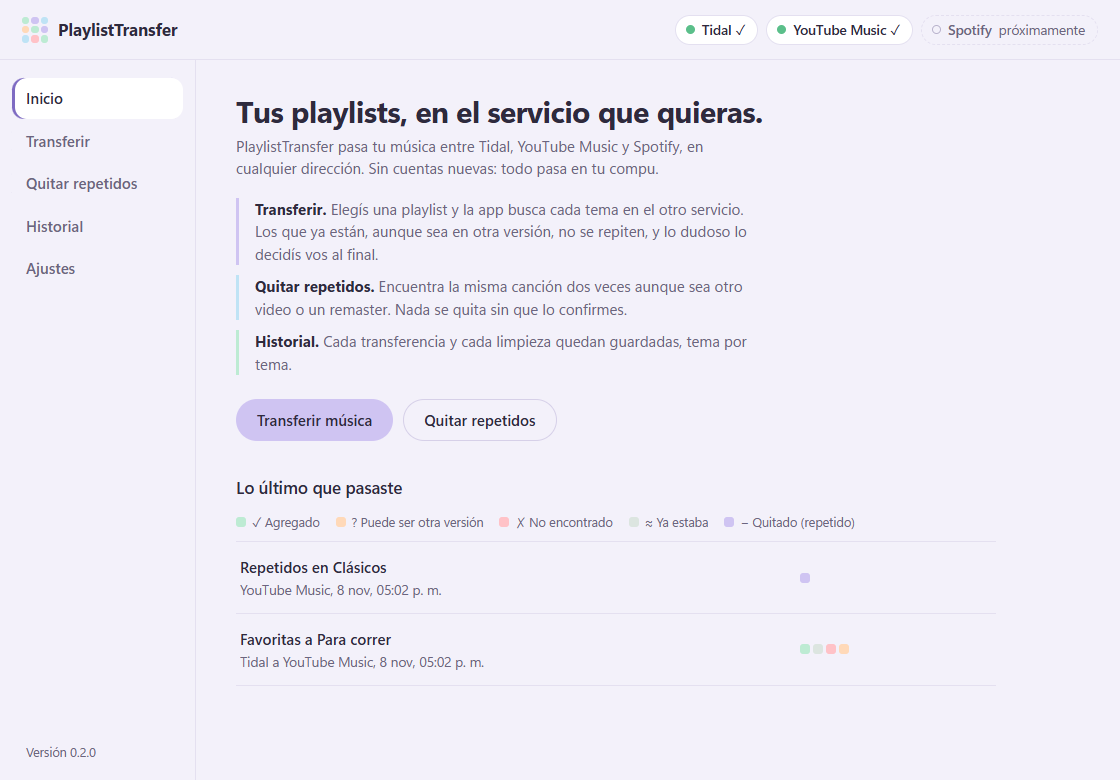
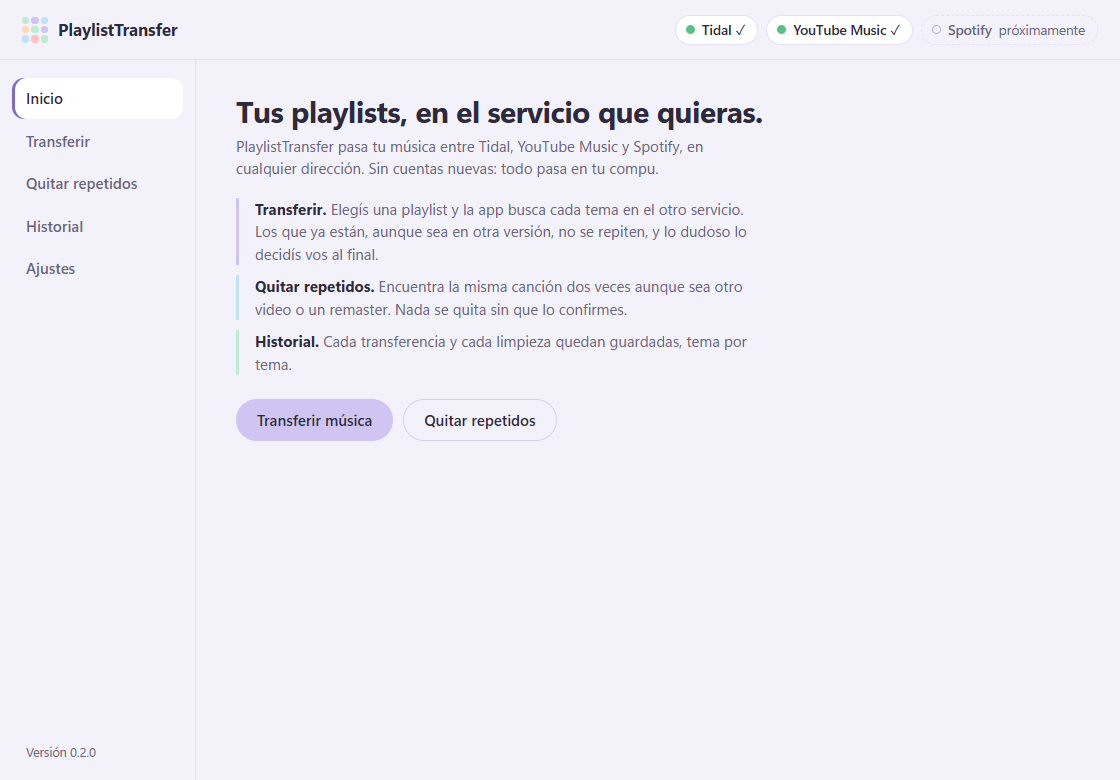
Inicio sin 'Lo último que pasaste' (ya está en Historial); ⇅ como ícono SVG centrado
Norma nueva en test_ui_design.py: todo botón sin texto usa .icon-btn, es cuadrado y su ícono
(un SVG, nunca un carácter) queda centrado, medido en pantalla.

diff --git a/app/ui/styles.css b/app/ui/styles.css
@@ -118,13 +118,6 @@
   .features li:nth-child(3) { border-left-color: var(--mint); }
   .features b { color: var(--ink); }
 
-  .history-mini { list-style: none; margin: 0; padding: 0; border-top: 1px solid var(--line); }
-  .history-mini li {
-    display: grid; grid-template-columns: 1fr auto; gap: 4px 20px; align-items: center;
-    padding: 14px 4px; border-bottom: 1px solid var(--line);
-  }
-  .history-mini .what { font-weight: 600; }
-  .history-mini .when { color: var(--ink-soft); font-size: 13.5px; }
 
   /* ---------- mosaico ---------- */
   .mosaic { display: grid; gap: 5px; }
@@ -275,7 +268,7 @@
 .svc .actions-inline { display: flex; gap: 8px; }
 .login-wait { font-size: 13.5px; color: var(--ink-soft); margin-top: 4px; }
 .path { font-size: 13px; color: var(--ink-soft); word-break: break-all; margin-top: 8px; }
-.history-mini li.empty, .hist li.empty { display: block; }
+.hist li.empty { display: block; }
 .empty .btn { margin-left: 10px; height: 32px; padding: 0 14px; font-size: 14px; }
 .hist-controls { margin-bottom: 16px; }
 .export-note { font-size: 13.5px; margin-top: 10px; word-break: break-all; }
@@ -324,8 +317,7 @@ main { overflow-wrap: anywhere; }                       /* una palabra larguísi
 
 /* Historial e Inicio: el texto se corta en dos líneas como mucho; el mosaico no empuja */
 .hist button.row { grid-template-columns: 116px minmax(0, 1fr) auto; }
-.history-mini li { grid-template-columns: minmax(0, 1fr) auto; }
-.hist .what, .history-mini .what { display: -webkit-box; -webkit-line-clamp: 2; -webkit-box-orient: vertical; overflow: hidden; }
+.hist .what { display: -webkit-box; -webkit-line-clamp: 2; -webkit-box-orient: vertical; overflow: hidden; }
 
 /* Repetidos: el selector no crece con el nombre más largo */
 #dup-playlist { width: 340px; max-width: 100%; min-width: 0; text-overflow: ellipsis; }
@@ -371,7 +363,7 @@ main { overflow-wrap: anywhere; }                       /* una palabra larguísi
 .done-box .done-extra { margin-top: 12px; }
 
 /* Estado vacío: texto y botón en una línea, alineados */
-.history-mini li.empty, .hist li.empty { display: flex; align-items: center; gap: 12px; flex-wrap: wrap; }
+.hist li.empty { display: flex; align-items: center; gap: 12px; flex-wrap: wrap; }
 .empty .btn { margin-left: 0; }
 
 /* Ayuda de los umbrales: más corta y del mismo tamaño que el resto de las ayudas */
@@ -413,4 +405,10 @@ dialog p + p { margin-top: 10px; }            /* un segundo aviso (Spotify) sepa
 }
 .route-pick select.to { box-shadow: inset 0 -3px 0 var(--sky); }
 .route-pick select:hover { background-color: #FBFAFE; }
-.route-pick .swap { width: var(--h-md); height: var(--h-md); padding: 0; border-radius: 50%; font-size: 17px; }
+.route-pick .icon-btn { border-radius: 50%; }
+
+/* Botones de solo ícono: el ícono es un SVG (no un carácter de texto, que cada fuente ubica distinto)
+   y se centra con grid. Norma: todo botón de ícono usa .icon-btn; test_ui_design.py mide que quede centrado */
+.icon-btn { width: var(--h-md); height: var(--h-md); padding: 0; display: inline-grid; place-items: center; }
+.icon-btn svg { width: 16px; height: 16px; fill: none; stroke: currentColor; stroke-width: 1.7;
+  stroke-linecap: round; stroke-linejoin: round; }

diff --git a/app/ui/app.js b/app/ui/app.js
@@ -230,13 +230,6 @@ function showLegend(id, visible) {
   if (visible) el.innerHTML = legendHTML();
 }
 
-async function renderHomeHistory() {
-  const ops = await call("history", 3) || [];
-  showLegend("#home-legend", ops.length > 0);
-  $("#home-history").innerHTML = ops.length ? ops.map(op => `
-    <li><div><div class="what" title="${esc(opTitle(op))}">${esc(opTitle(op))}</div><div class="when">${esc(opRoute(op))}, ${esc(opDate(op))}</div></div>
-    ${mosaicHTML(op)}</li>`).join("") : emptyHistory();
-}
 
 /* ---------------------------------------------------------------- transferir: elegir */
 
@@ -377,7 +370,6 @@ async function startTransfer(dryRun) {
     $("#done-detail").textContent = cancelled ? t("transfer.cancelled_text") : (done.error || "");
     $("#open-dest").hidden = true; $("#done").classList.add("show");
   }
-  renderHomeHistory();
 }
 
 function onTransferEvent(tr, e) {
@@ -474,7 +466,6 @@ async function addDoubtful(ns) {
   }
   toast(added.size ? t("transfer.add_doubtful_toast", { n: added.size }) : t("transfer.add_doubtful_already"));
   updateAddAll();
-  renderHomeHistory();
 }
 
 $("#add-all").addEventListener("click", () => {
@@ -495,7 +486,6 @@ $("#tracks").addEventListener("click", async e => {
     const a = done.result.added;
     b.textContent = t("transfer.alt_added", { artist: a.artist });
     toast(t("transfer.alt_toast", { title: a.title, artist: a.artist }));
-    renderHomeHistory();
   } else { b.disabled = false; toast(done.error || t("transfer.alt_error")); }
 });
 
@@ -582,7 +572,7 @@ $("#confirm-yes").addEventListener("click", async () => {
   const done = await follow(r.job);
   if (done.state === "done") {
     toast(t("dedupe.removed_toast", { songs: songs(done.result.removed), name: done.result.name }));
-    delete state.playlists[state.dupService]; renderHomeHistory(); await renderDupControls(); scanDups();
+    delete state.playlists[state.dupService]; await renderDupControls(); scanDups();
   } else toast(done.error || t("dedupe.remove_error"));
 });
 
@@ -825,7 +815,6 @@ async function start() {
     $("#version").textContent = t("nav.version", { v: info.version });
     $("#about-version").textContent = t("settings.about_version", { v: info.version });
   }
-  renderHomeHistory();
   await refreshStatus();
   let screen = null;
   try { screen = sessionStorage.getItem("pt-screen"); sessionStorage.removeItem("pt-screen"); } catch (_) { /* nada */ }

diff --git a/app/ui/index.html b/app/ui/index.html
@@ -43,9 +43,6 @@
         <button class="btn ghost" data-go="repetidos" data-i18n="home.dedupe">Quitar repetidos</button>
       </div>
 
-      <h2 data-i18n="home.recent">Lo último que pasaste</h2>
-      <div class="legend compact" id="home-legend" role="note" data-i18n-aria="legend.aria" hidden></div>
-      <ul class="history-mini" id="home-history"></ul>
     </section>
 
     <!-- ================= TRANSFERIR ================= -->
@@ -64,7 +61,7 @@
           <select data-i18n-aria="transfer.from_aria" aria-label="Servicio de origen" id="from"></select>
           <span data-i18n="transfer.to">a</span>
           <select data-i18n-aria="transfer.to_aria" aria-label="Servicio de destino" class="to" id="to"></select>
-          <button class="btn ghost swap" id="swap" data-i18n-aria="transfer.swap_aria" aria-label="Dar vuelta">⇅</button>
+          <button class="btn ghost icon-btn" id="swap" data-i18n-aria="transfer.swap_aria" aria-label="Dar vuelta"><svg viewBox="0 0 16 16" aria-hidden="true"><path d="M5 13V3M2 6l3-3 3 3M11 3v10M8 10l3 3 3-3"/></svg></button>
         </p>
         <div class="notice" id="pick-connect" hidden>
           <p id="pick-connect-text"></p>

diff --git a/tests/test_ui.py b/tests/test_ui.py
@@ -89,7 +89,6 @@ def shot(page, name):
 def test_first_run_everything_empty(browser, tmp_path):
     api, *_ = make_api(tmp_path, connected=False)
     page, errors = open_page(browser, api)
-    assert "Todavía no hiciste transferencias" in page.inner_text("#home-history")
     assert page.is_visible("#home-connect")
     assert "sin conectar" in page.inner_text("#chips")
     shot(page, "1-inicio-primer-uso")
@@ -405,7 +404,7 @@ def test_history_filter_mosaic_and_export(browser, tmp_path):
     assert text.startswith("# PlaylistTransfer — historial") and "- Quitado (repetido):" in text
     shot(page, "8-historial-exportado")
     page.click("nav [data-go=inicio]")
-    assert page.locator("#home-history .mosaic i").count() == 5
+    assert page.locator("#home-history").count() == 0                # el historial vive solo en Historial
     shot(page, "9-inicio-con-historial")
     assert errors == []
 
@@ -498,20 +497,18 @@ def test_switch_language_from_settings(browser, tmp_path):
 
 # ---------------------------------------------------------------- mosaicos que informan
 
-def test_home_and_history_legends_only_when_there_is_history(browser, tmp_path):
+def test_history_legend_only_when_there_is_history(browser, tmp_path):
     api, *_ = make_api(tmp_path)
     page, errors = open_page(browser, api)
-    assert page.is_hidden("#home-legend")
     page.click("nav [data-go=historial]")
     assert page.is_hidden("#hist-legend")
+    assert "Todavía no hiciste transferencias" in page.inner_text("#hist")
     transfer(page)
-    page.click("nav [data-go=inicio]")
-    page.wait_for_selector("#home-legend:not([hidden])")
-    legend = page.inner_text("#home-legend")
-    for word in ("Agregado", "Puede ser otra versión", "No encontrado", "Ya estaba", "Quitado (repetido)"):
-        assert word in legend
     page.click("nav [data-go=historial]")
     page.wait_for_selector("#hist-legend:not([hidden])")
+    legend = page.inner_text("#hist-legend")
+    for word in ("Agregado", "Puede ser otra versión", "No encontrado", "Ya estaba", "Quitado (repetido)"):
+        assert word in legend
     assert errors == []
 
 
@@ -519,14 +516,14 @@ def test_each_small_tile_says_which_song_it_is(browser, tmp_path):
     api, *_ = make_api(tmp_path)
     page, errors = open_page(browser, api)
     transfer(page)
-    page.click("nav [data-go=inicio]")
-    page.wait_for_selector("#home-history .mosaic i")
-    titles = [i.get_attribute("title") for i in page.query_selector_all("#home-history .mosaic i")]
+    page.click("nav [data-go=historial]")
+    page.wait_for_selector("#hist .mosaic i")
+    titles = [i.get_attribute("title") for i in page.query_selector_all("#hist .mosaic i")]
     assert "Hallelujah — Jeff Buckley: No encontrado" in titles
     assert "Mr. Blue Sky — Electric Light Orchestra: Ya estaba" in titles
-    label = page.get_attribute("#home-history .mosaic", "aria-label")
+    label = page.get_attribute("#hist .mosaic", "aria-label")
     assert label == "1 agregado, 1 ya estaba, 1 sin agregar (puede ser otra versión), 1 no encontrado"
-    shot(page, "11-inicio-leyenda")
+    shot(page, "11-historial-leyenda")
     assert errors == []
 
 

diff --git a/tests/test_ui_design.py b/tests/test_ui_design.py
@@ -24,8 +24,27 @@ MEASURE = """(screen) => {
 }"""
 
 
+# Norma de los botones de ícono (los que no tienen texto, como ⇅): usan .icon-btn, son cuadrados
+# y el ícono queda centrado, medido en pantalla. Un carácter de texto como ícono se ve corrido.
+ICONS = """(screen) => {
+  const vis = el => { const r = el.getBoundingClientRect(); return r.width > 0 && r.height > 0; };
+  const out = [];
+  document.querySelectorAll('#' + screen + ' button').forEach(b => {
+    if (!vis(b) || b.textContent.trim() && !b.querySelector('svg')) return;      // botón con texto: no aplica
+    const name = b.id || b.className;
+    if (!b.matches('.icon-btn')) { out.push(name + ': botón sin texto que no usa .icon-btn'); return; }
+    if (b.textContent.trim()) { out.push(name + ': el ícono tiene que ser un SVG, no texto'); return; }
+    const r = b.getBoundingClientRect(), i = b.querySelector('svg').getBoundingClientRect();
+    if (Math.abs(r.width - r.height) > 0.5) out.push(name + `: no es cuadrado (${r.width}x${r.height})`);
+    const dx = (i.left + i.width / 2) - (r.left + r.width / 2), dy = (i.top + i.height / 2) - (r.top + r.height / 2);
+    if (Math.abs(dx) > 0.5 || Math.abs(dy) > 0.5) out.push(name + `: ícono descentrado (${dx.toFixed(1)}, ${dy.toFixed(1)})`);
+  });
+  return out;
+}"""
+
+
 def check(page, screen):
-    bad = []
+    bad = list(page.evaluate(ICONS, screen))
     for el in page.evaluate(MEASURE, screen):
         allowed = {SEGMENT} if el["seg"] else (FIELDS if el["field"] else BUTTONS)
         if el["h"] not in allowed:

diff --git a/tests/test_ui_stress.py b/tests/test_ui_stress.py
@@ -95,7 +95,7 @@ def test_extreme_data_does_not_break_the_layout(browser, tmp_path, size):
     shot(page, f"stress-{size}-4-historial")
 
     page.click("nav [data-go=inicio]")
-    page.wait_for_selector("#home-history li")
+    page.wait_for_selector("#inicio .features")
     problems["inicio"] = overflow(page)
     shot(page, f"stress-{size}-5-inicio")
 

diff --git a/tools/readme_screenshots.py b/tools/readme_screenshots.py
@@ -49,7 +49,7 @@ def main() -> None:
         page.screenshot(path=str(OUT / "historial.png"))
 
         page.click("nav [data-go=inicio]")
-        page.wait_for_selector("#home-history .mosaic")
+        page.wait_for_selector("#inicio .features")
         page.screenshot(path=str(OUT / "inicio.png"))
         browser.close()
         if errors:
